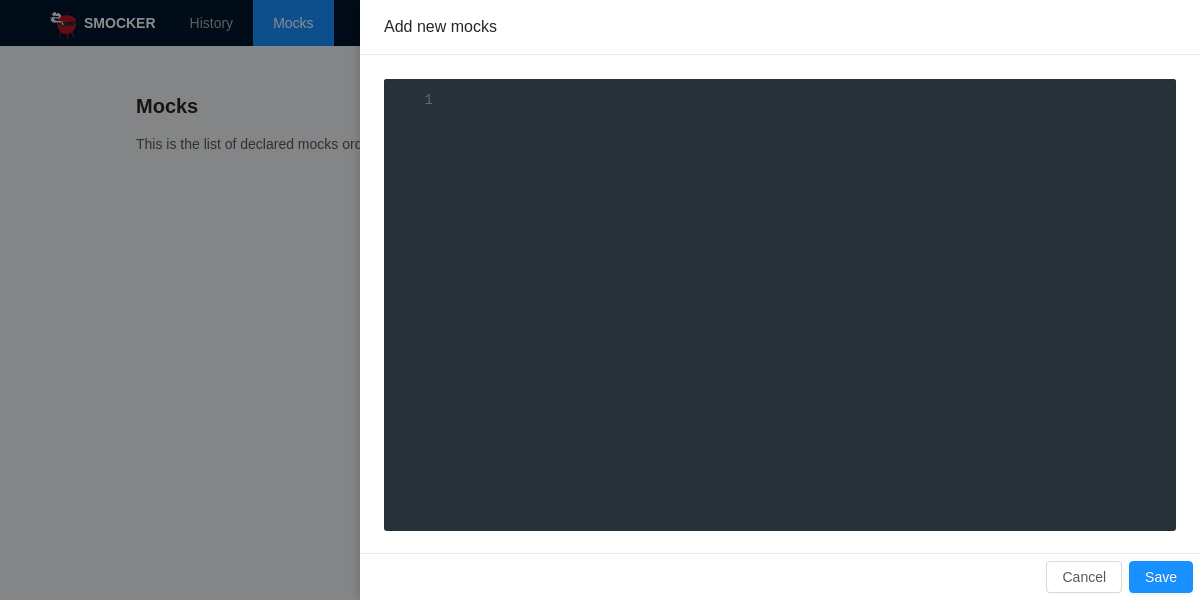
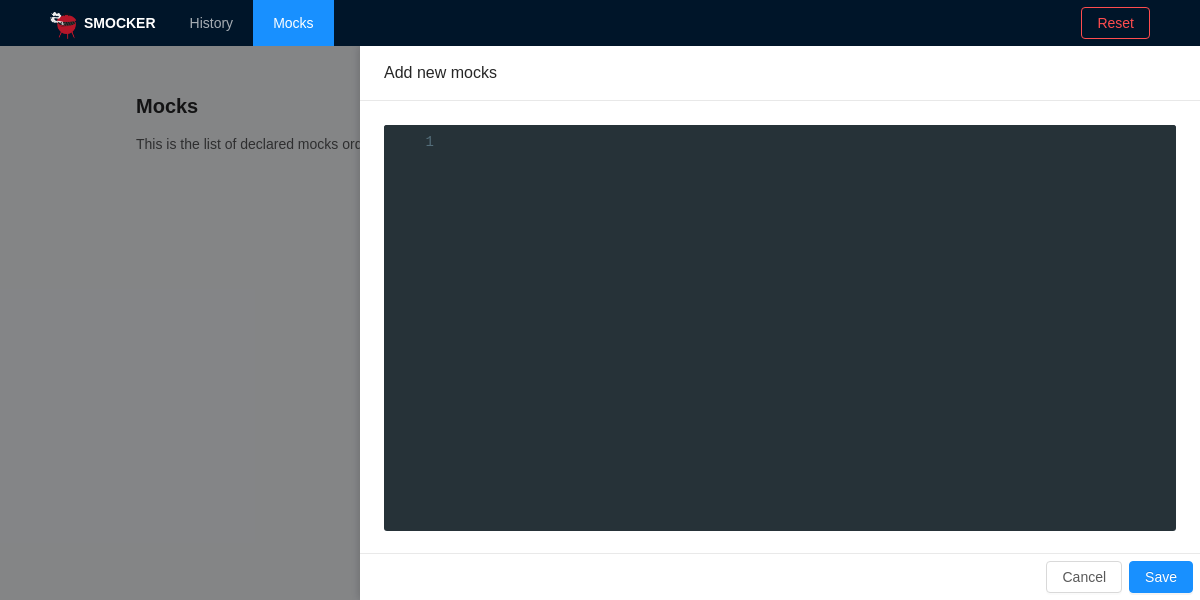
feat:  change font-size in code component + regenerate screenshots

Changed region(s): [[0.1542, 0.0, 1.0, 0.21], [0.0308, 0.0, 0.1233, 0.06]]

diff --git a/client/src/components/Code.scss b/client/src/components/Code.scss
@@ -1,8 +1,4 @@
 .code-editor {
-  .CodeMirror-wrap pre.CodeMirror-line {
-    line-height: initial;
-  }
-
   .CodeMirror {
     position: relative;
     height: auto;
@@ -13,6 +9,16 @@
 
     .CodeMirror-scroll {
       height: auto;
+    }
+
+    .CodeMirror-line {
+      line-height: 12px;
+      font-size: 12px;
+    }
+
+    .CodeMirror-gutter-elt {
+      line-height: 12px;
+      font-size: 14px;
     }
   }
 }
